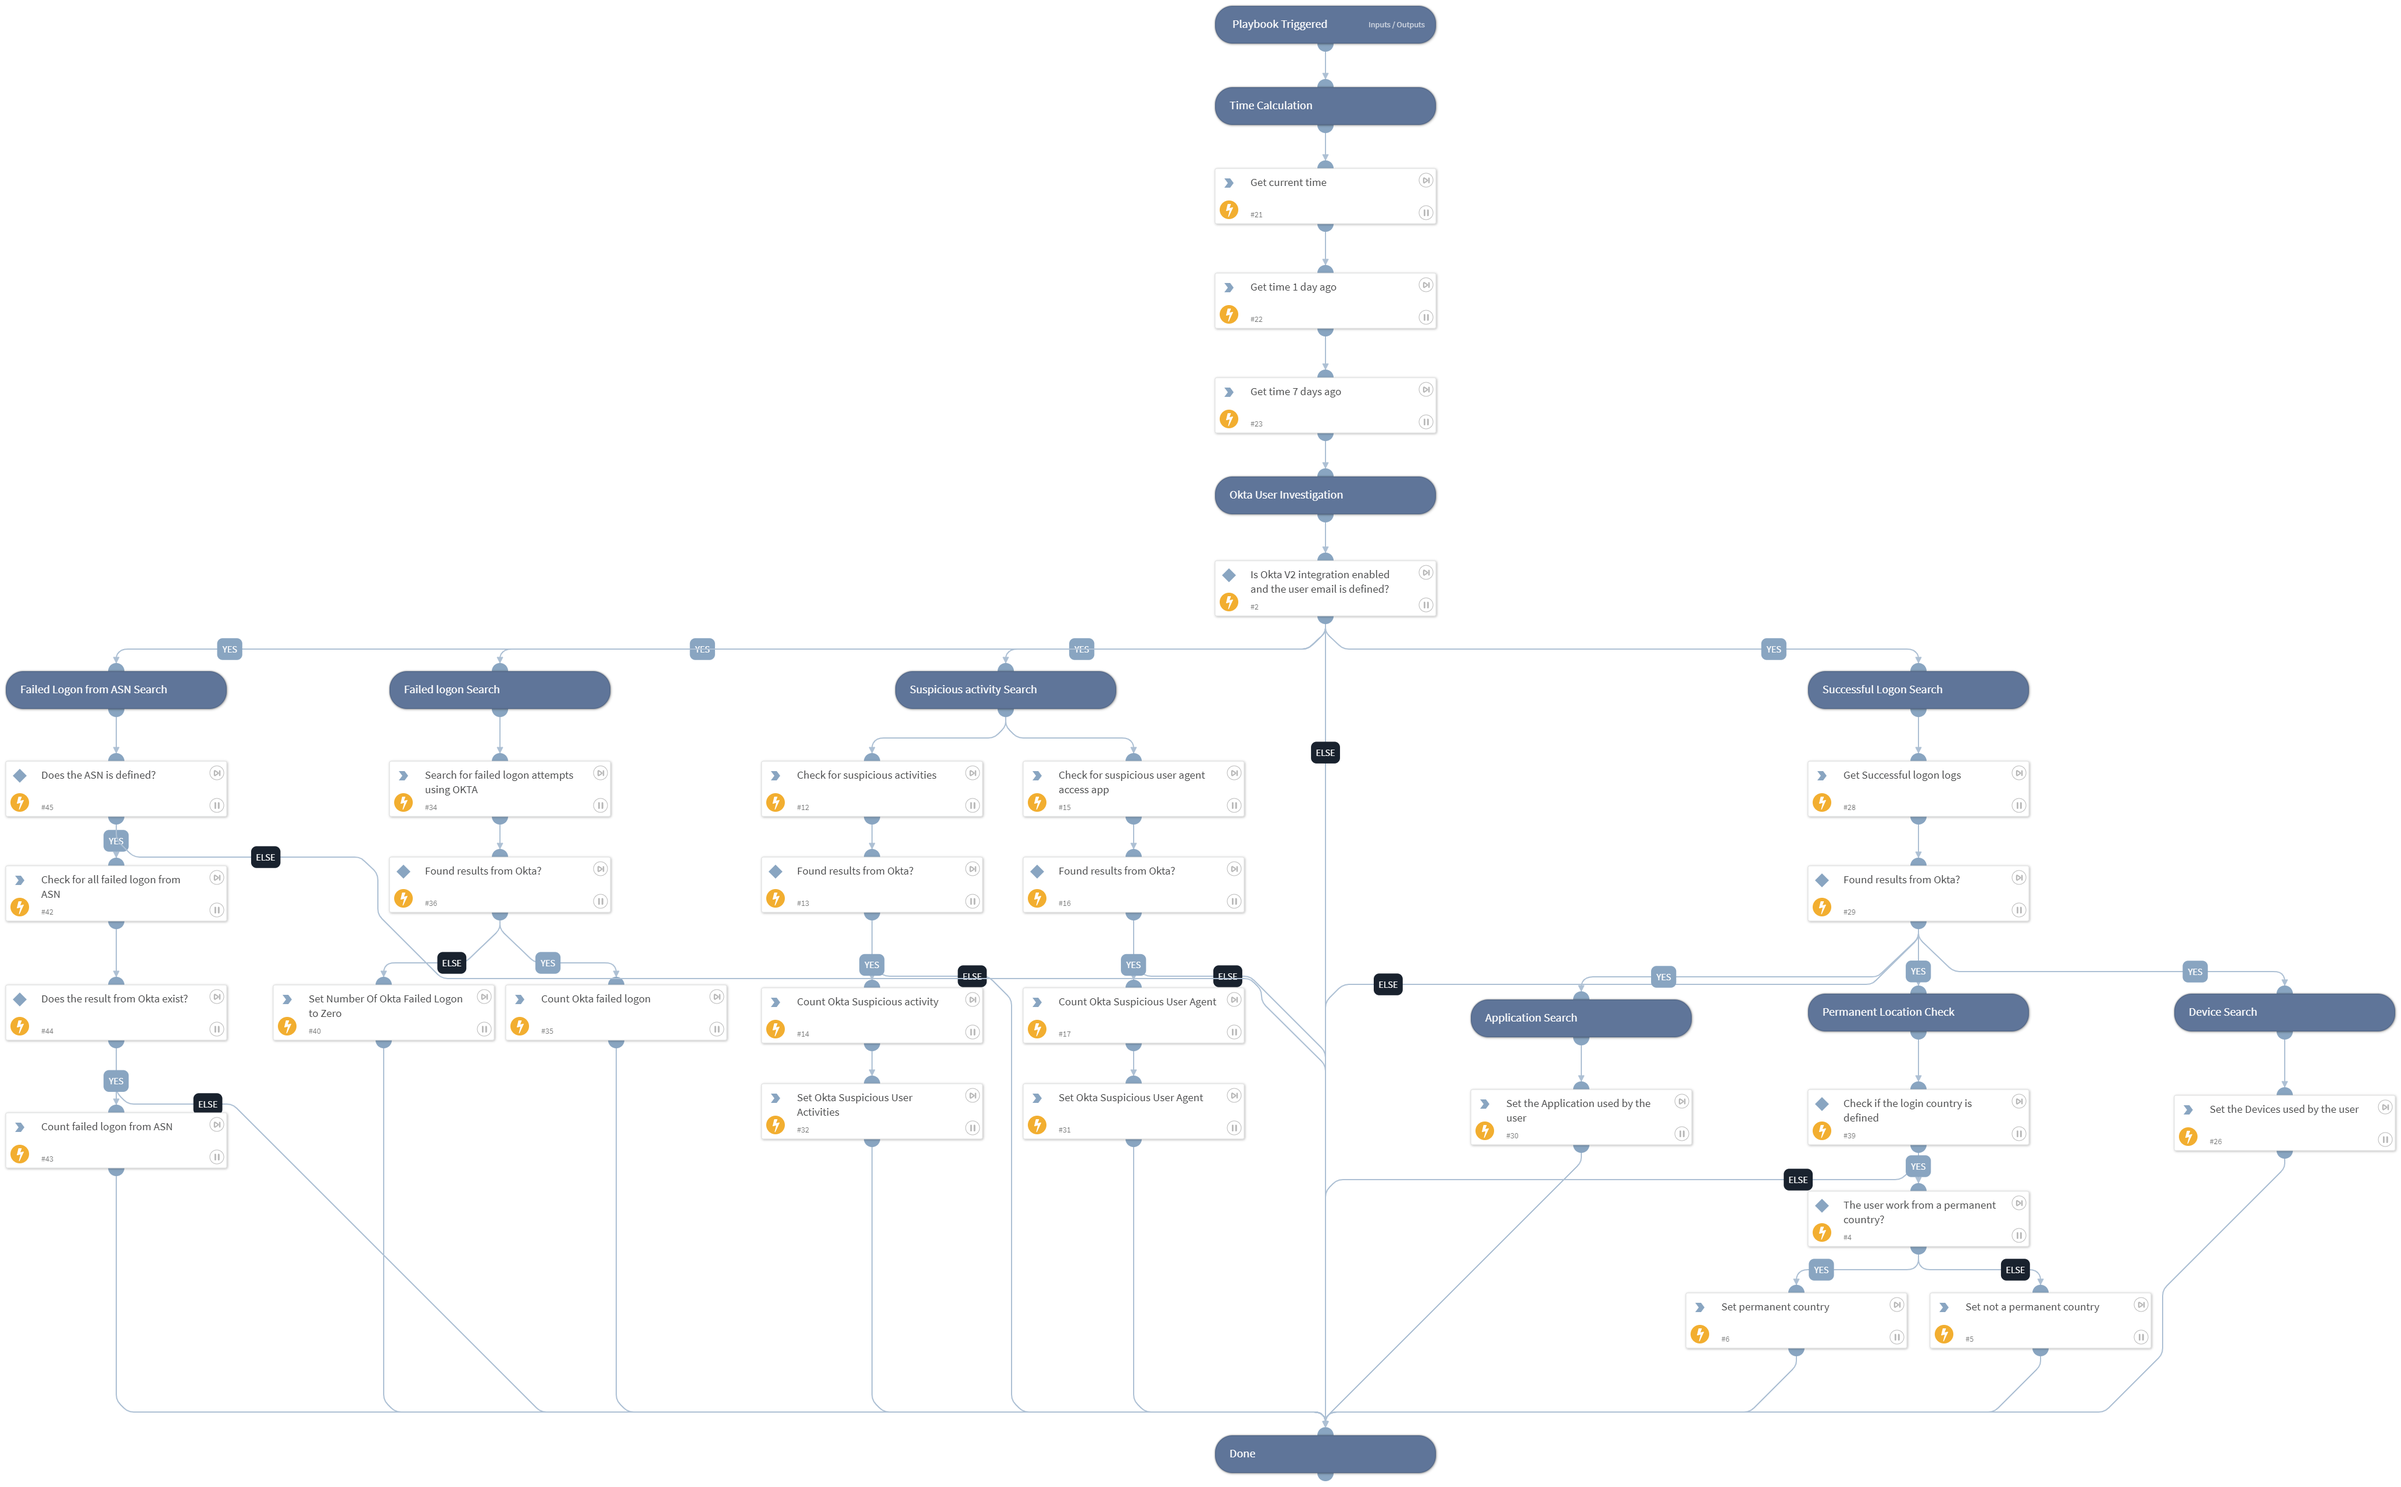
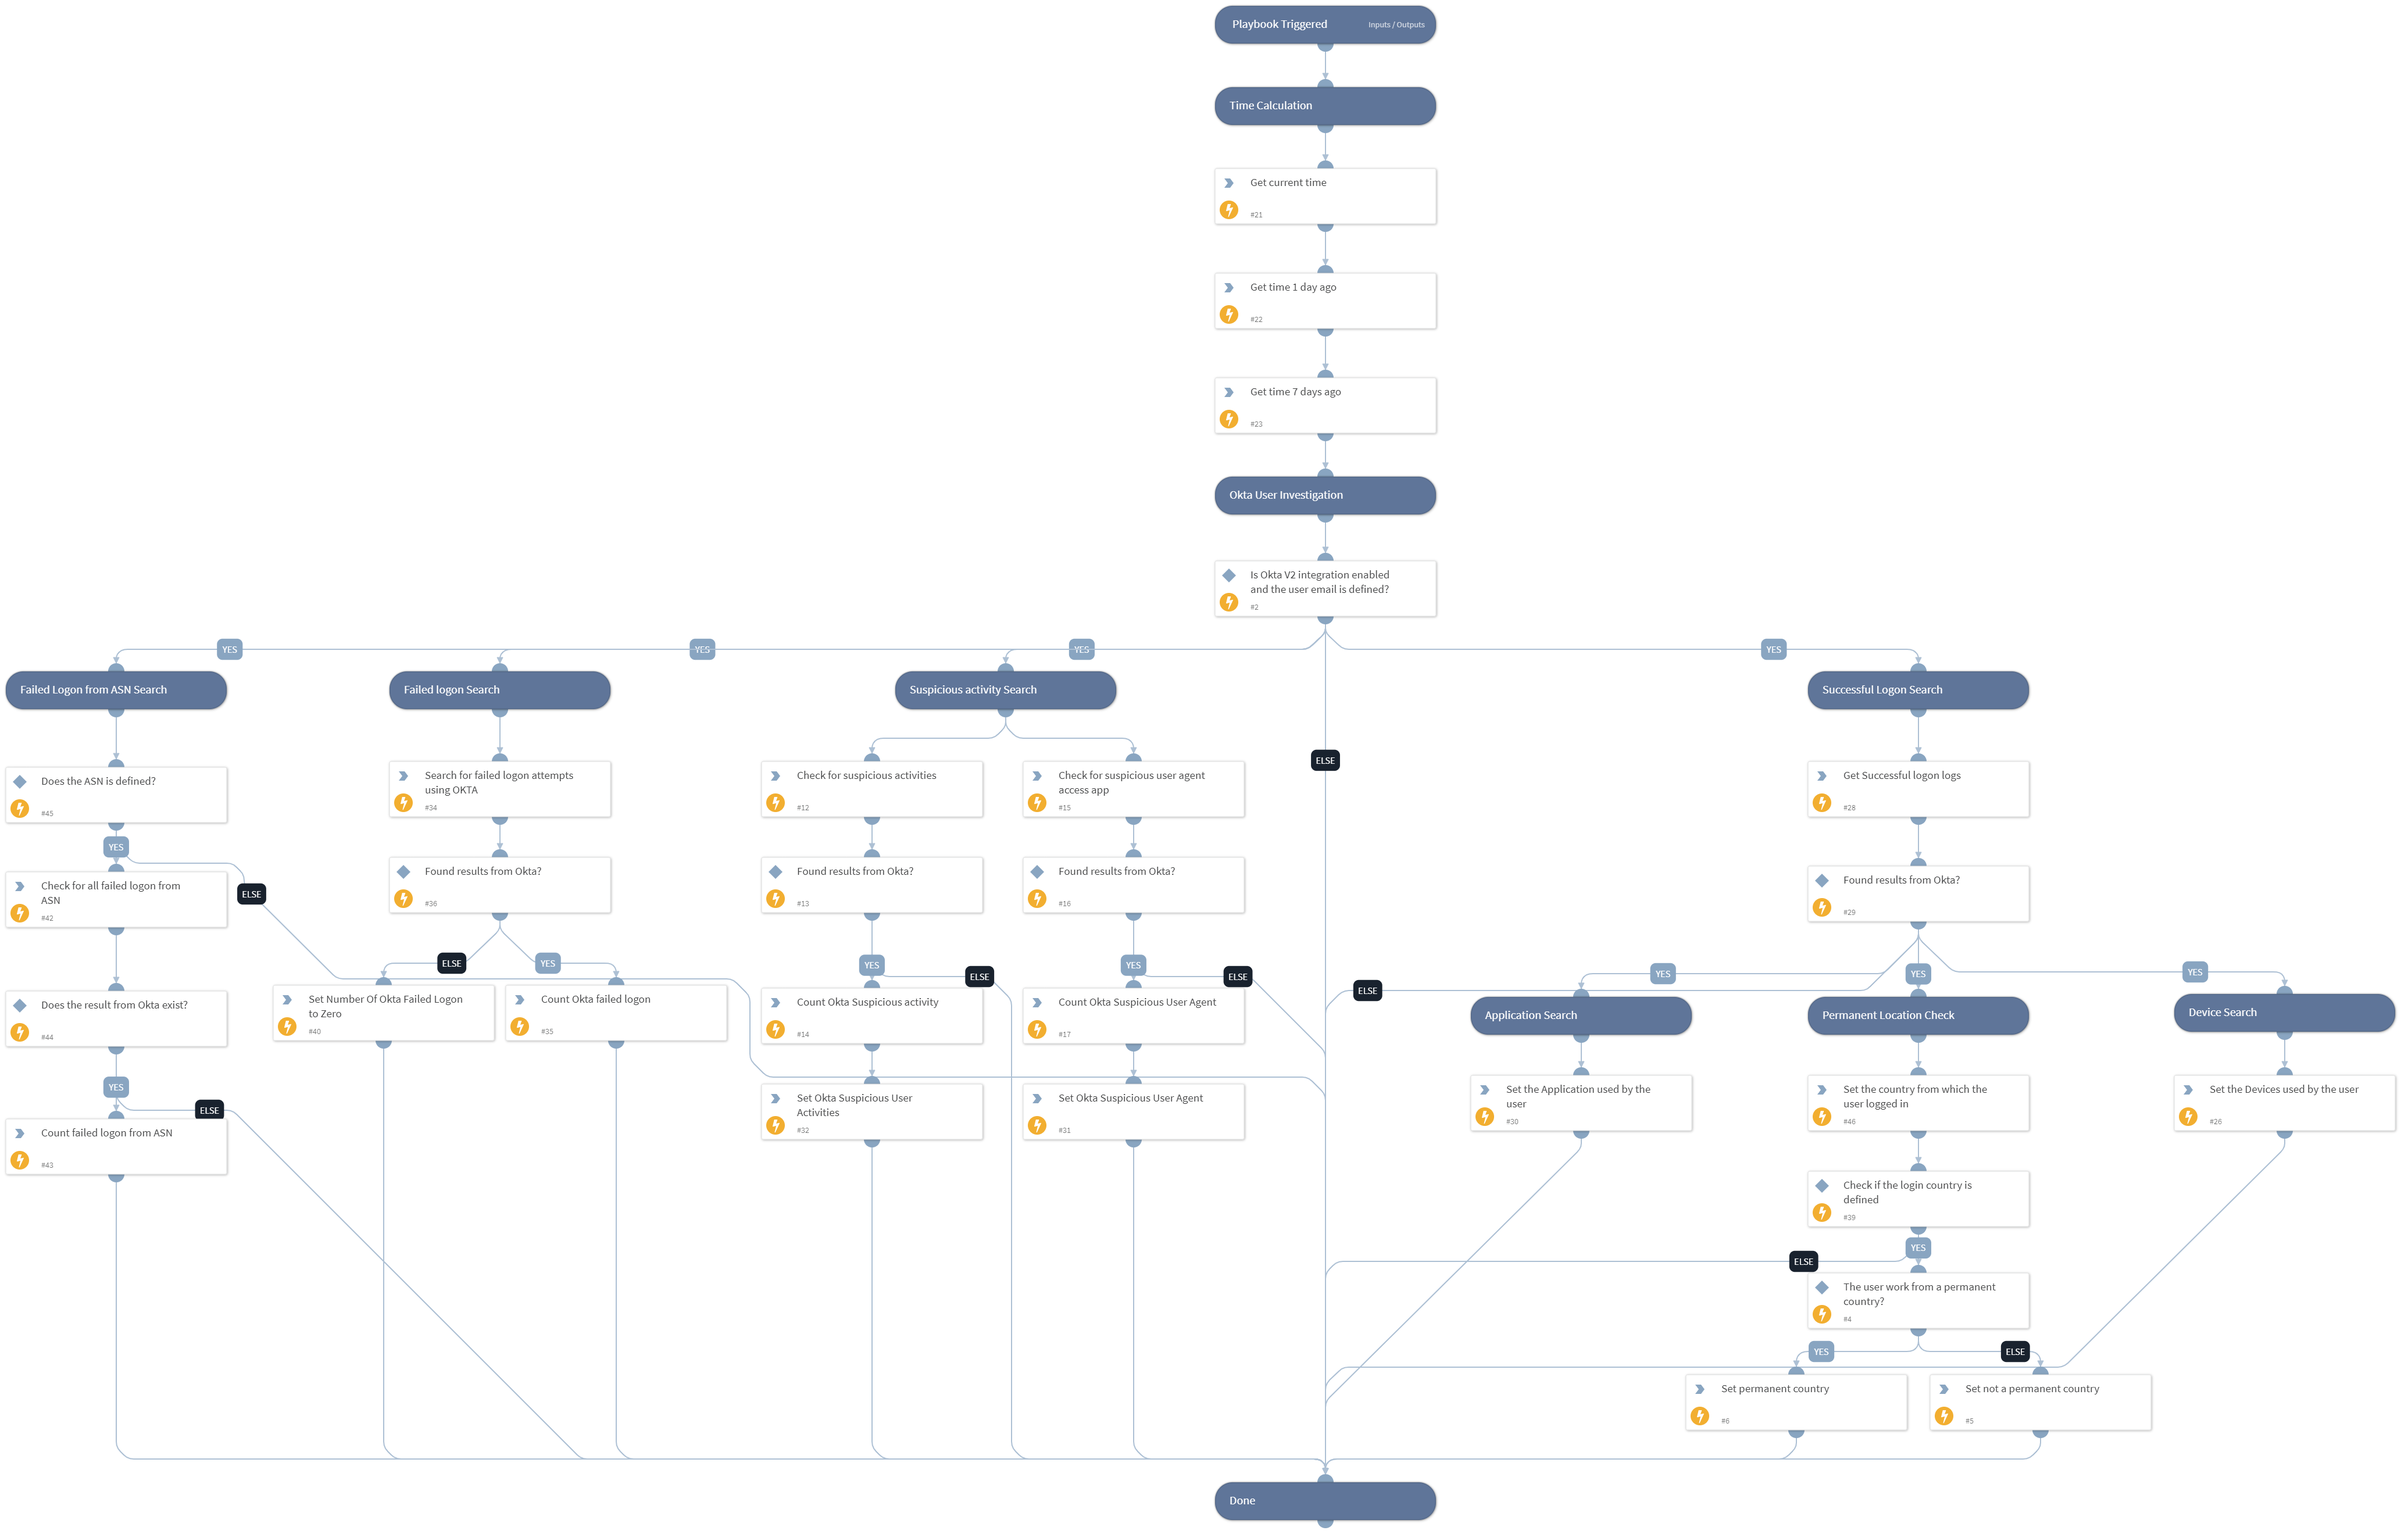
Okta user investigation - Enhancement (#29349)
* added new output - LogonCountry

* RN after new output was added.

* Apply suggestions from code review

* RN after new output was added.

---------

diff --git a/Packs/Okta/Playbooks/playbook-Okta_-_User_Investigation_README.md b/Packs/Okta/Playbooks/playbook-Okta_-_User_Investigation_README.md
@@ -1,32 +1,39 @@
 This playbook performs an investigation on a specific user, using queries and logs from Okta.
 
 ## Dependencies
+
 This playbook uses the following sub-playbooks, integrations, and scripts.
 
 ### Sub-playbooks
+
 This playbook does not use any sub-playbooks.
 
 ### Integrations
+
 * Okta v2
 
 ### Scripts
-* GetTime
+
 * CountArraySize
 * Set
+* GetTime
 
 ### Commands
+
 * okta-get-logs
 
 ## Playbook Inputs
+
 ---
 
 | **Name** | **Description** | **Default Value** | **Required** |
 | --- | --- | --- | --- |
 | UserEmail | The user email to search Okta logs. |  | Optional |
-| LoginCountry | The Country from which the user logged in. |  | Optional |
+| LoginCountry | The Country code from which the user logged in.<br/>Country Code Alpha 2 \(Example: US\) |  | Optional |
 | ASN | The ASN from which the user logged in. |  | Optional |
 
 ## Playbook Outputs
+
 ---
 
 | **Path** | **Description** | **Type** |
@@ -40,7 +47,10 @@ This playbook does not use any sub-playbooks.
 | UserApplication |  Applications used by the user. | unknown |
 | NumOfOktaFailedLogon | Number of failed login. | unknown |
 | NumOfFailedLogonASN | Number of failed login from ASN by all users. | unknown |
+| LogonCountries | The countries from which the user logged in. | unknown |
 
 ## Playbook Image
+
 ---
+
 ![Okta - User Investigation](../doc_files/Okta_-_User_Investigation.png)

diff --git a/Packs/Okta/ReleaseNotes/3_1_29.md b/Packs/Okta/ReleaseNotes/3_1_29.md
@@ -1,0 +1,6 @@
+
+#### Playbooks
+
+##### Okta - User Investigation
+
+Added new output *LogonCountries*.
